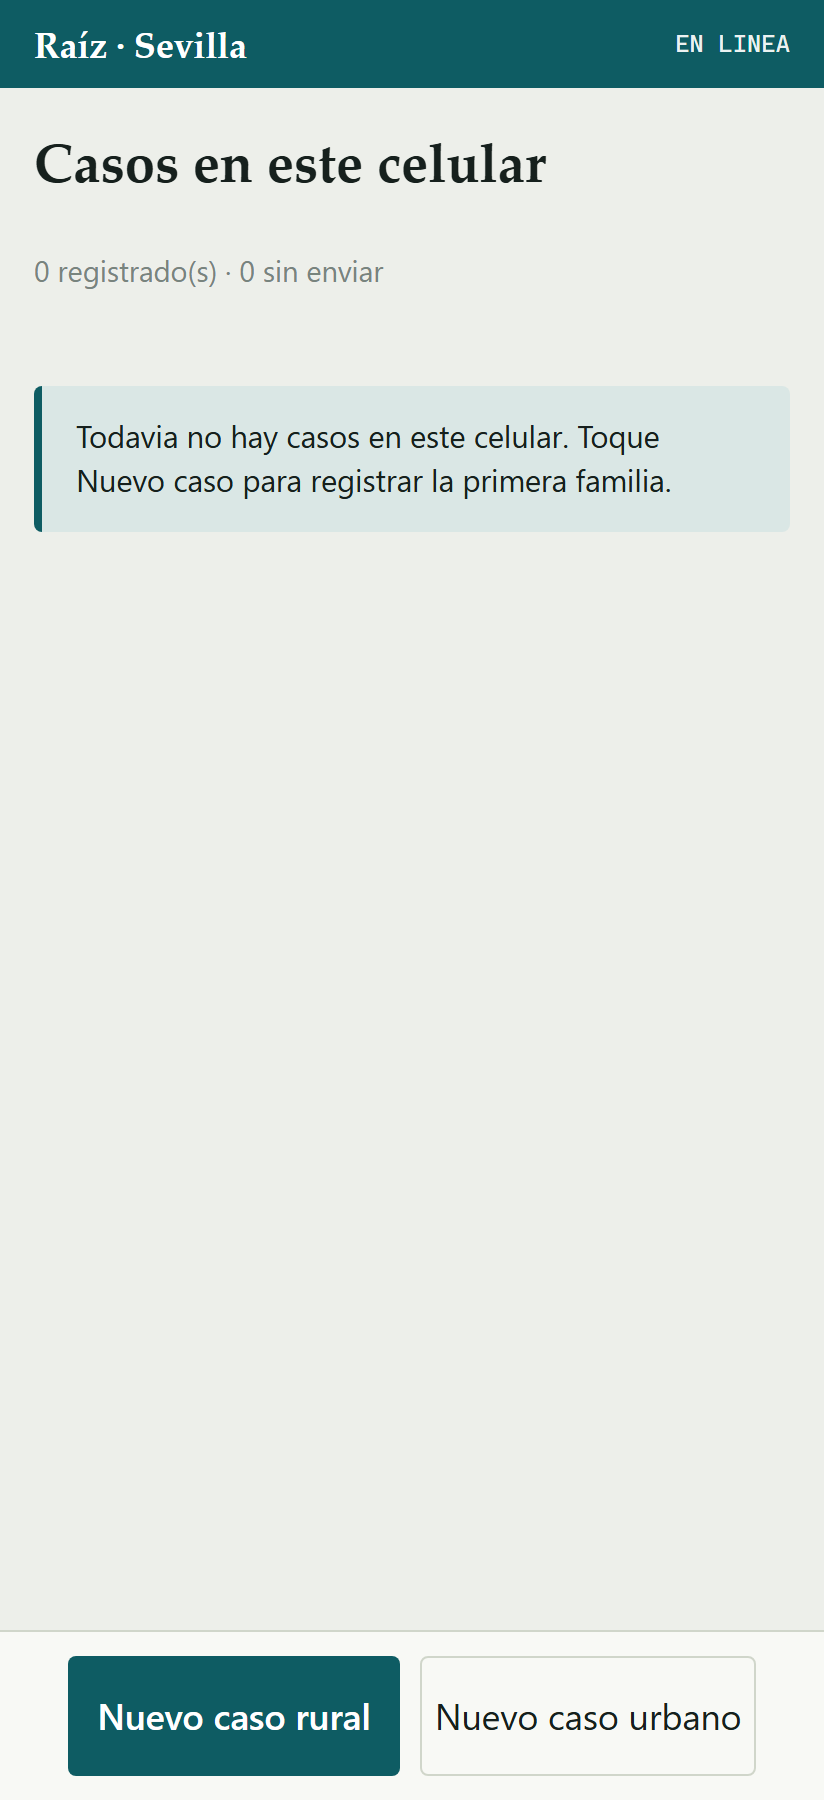
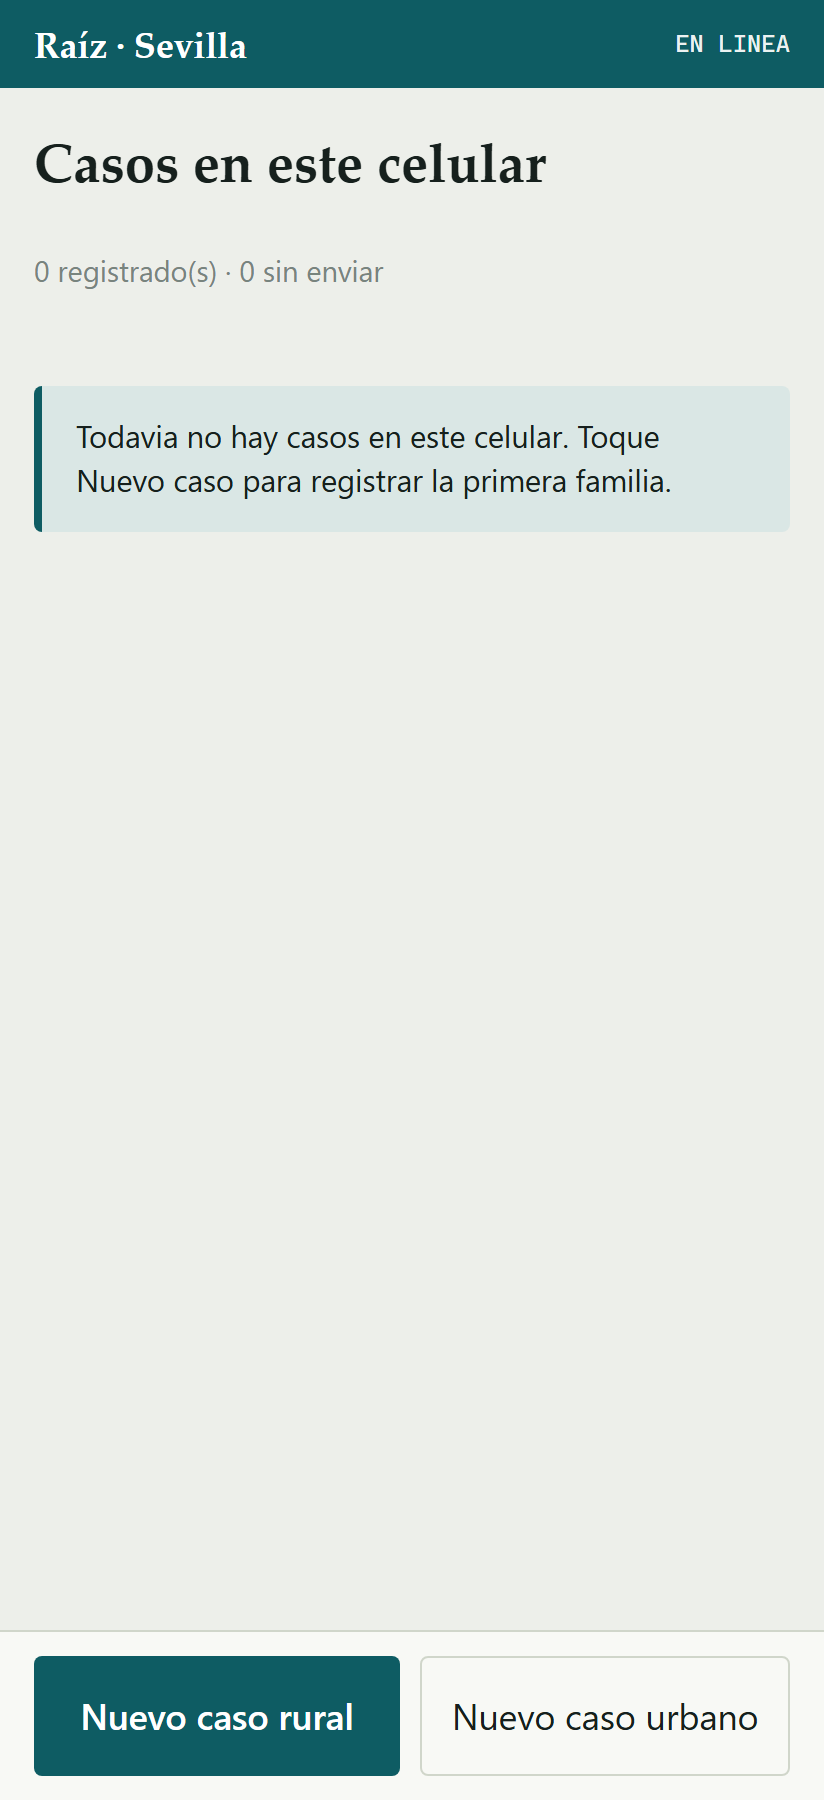
front: registro de voluntarios, con la cuenta inactiva hasta que la mesa la active
Yonathan pidio la vista y las guardas del acceso. Las guardas y la pantalla de
entrada ya existian de F2 y quedaron verificadas contra su API de sesion; lo que
faltaba era registro.

LA DECISION QUE HAY DETRAS

En una emergencia no se puede poner friccion para sumar voluntarios: quien
quiera ayudar tiene que poder pedir su cuenta a las once de la noche sin esperar
a que alguien conteste un mensaje.

Y a la vez, no puede entrar informacion de familias reales al registro sin que
alguien responda por quien la levanto.

Por eso el registro es ABIERTO y la cuenta nace con el rol menos privilegiado y
sin activar. El voluntario se registra y conoce la herramienta; la custodia de
datos la activa cuando confirma quien es. Cero friccion para sumarse, cero datos
sin responsable.

CONTRATO QUE FALTA DEL LADO DE LA API

Ruta abierta de registro por POST.
Cuerpo: nombre, correo, clave, telefono, organizacion.
Respuesta 201 con pendienteDeActivacion booleano.
409 si el correo ya existe. 422 si los datos no sirven.

Si el servidor no manda ese campo, el cliente asume lo mas restrictivo: que
falta activar.

TAMBIEN

- Se corrige el texto de la pantalla de entrada, que decia que no habia registro
  abierto
- La organizacion es texto libre y no un catalogo: quien llega no siempre sabe
  como se llama formalmente su junta, y hacerlo escoger de una lista lo deja por
  fuera
- Se adapta la prueba de punta a punta a dos cambios suyos: el contador de
[…]

Changed region(s): [[0.0303, 0.9022, 0.4551, 0.9956], [0.5158, 0.9333, 0.9405, 0.9644]]

diff --git a/frontend/src/app/features/auth/registro.component.ts b/frontend/src/app/features/auth/registro.component.ts
@@ -1,0 +1,185 @@
+import { ChangeDetectionStrategy, Component, inject, signal } from '@angular/core';
+import { FormBuilder, ReactiveFormsModule, Validators } from '@angular/forms';
+import { Router, RouterLink } from '@angular/router';
+import { environment } from '../../../environments/environment';
+import { AUTH, AuthPort } from '../../core/domain/auth.model';
+
+/**
+ * Pedir una cuenta de voluntario.
+ *
+ * POR QUE EL REGISTRO ES ABIERTO Y LA CUENTA NACE INACTIVA
+ *
+ * En una emergencia no se puede poner friccion para sumar gente: quien quiera ayudar
+ * tiene que poder pedir su cuenta a las once de la noche, sin esperar a que alguien
+ * conteste un mensaje.
+ *
+ * Y a la vez, no puede entrar informacion de familias reales al registro sin que
+ * alguien responda por quien la levanto. Por eso la cuenta se crea con el rol menos
+ * privilegiado y sin activar: el voluntario se registra y conoce la herramienta, y la
+ * custodia de datos la activa cuando confirma quien es.
+ *
+ * Cero friccion para sumarse, cero datos sin responsable.
+ *
+ * QUE SE PIDE Y QUE NO. Se piden cinco cosas y tres son obligatorias. La organizacion
+ * es texto libre y no un catalogo, porque quien llega no siempre sabe como se llama
+ * formalmente su junta, y hacerlo escoger de una lista lo deja por fuera.
+ *
+ * @version 0.1.0
+ */
+@Component({
+  selector: 'app-registro',
+  imports: [ReactiveFormsModule, RouterLink],
+  changeDetection: ChangeDetectionStrategy.OnPush,
+  template: `
+    <div class="contenedor pila" style="padding:2rem 1rem;max-width:26rem">
+      @if (registrado()) {
+        <header class="pila-sm">
+          <h1>Cuenta creada</h1>
+        </header>
+        <p class="aviso exito">
+          Su cuenta quedo creada. <strong>Falta que la mesa la active</strong> antes de
+          que pueda registrar familias.
+        </p>
+        <p class="tenue">
+          No es un tramite: es que ningun dato de una familia entra al registro sin que
+          alguien responda por quien lo levanto. Avise en el grupo que ya se registro y
+          la activan.
+        </p>
+        <a routerLink="/acceso" class="btn-primario btn-ancho btn-grande"
+           style="text-align:center;display:flex;align-items:center;justify-content:center;
+                  border-radius:4px">
+          Volver a la pantalla de entrada
+        </a>
+      } @else {
+        <header class="pila-sm">
+          <h1>Pedir una cuenta</h1>
+          <p class="tenue">
+            Para voluntarios, lideres comunales y personas de juntas o asociaciones que
+            van a registrar familias afectadas.
+          </p>
+        </header>
+
+        @if (!configurado) {
+          <p class="aviso">
+            El servidor todavia no esta configurado. Mientras tanto puede usar la
+            aplicacion en modo local desde la pantalla de entrada.
+          </p>
+        } @else {
+          <form class="pila-sm" [formGroup]="form" (ngSubmit)="enviar()">
+            <div class="campo">
+              <label for="nombre">Su nombre completo</label>
+              <input id="nombre" type="text" autocomplete="name" formControlName="nombre" />
+              <span class="pista">Con este nombre queda firmado cada caso que registre.</span>
+            </div>
+
+            <div class="campo">
+              <label for="correo">Correo</label>
+              <input id="correo" type="email" inputmode="email" autocomplete="username"
+                     formControlName="correo" />
+            </div>
+
+            <div class="campo">
+              <label for="tel">Celular</label>
+              <input id="tel" type="tel" inputmode="tel" formControlName="telefono" />
+              <span class="pista">Para poder confirmar quien es usted y activarle la cuenta.</span>
+            </div>
+
+            <div class="campo">
+              <label for="org">Junta, comite o asociacion</label>
+              <input id="org" type="text" formControlName="organizacion"
+                     placeholder="Escriba independiente si no pertenece a ninguna" />
+            </div>
+
+            <div class="campo" [class.invalido]="claveCorta()">
+              <label for="clave">Clave</label>
+              <input id="clave" [type]="verClave() ? 'text' : 'password'"
+                     autocomplete="new-password" formControlName="clave" />
+              @if (claveCorta()) {
+                <span class="error">Use al menos 8 caracteres.</span>
+              }
+              <label class="pastilla" style="align-self:flex-start;margin-top:.35rem"
+                     [class.activa]="verClave()">
+                <input type="checkbox" [checked]="verClave()"
+                       (change)="verClave.set(!verClave())" />
+                Ver la clave
+              </label>
+            </div>
+
+            @if (error()) {
+              <p class="aviso peligro">{{ error() }}</p>
+            }
+
+            <p class="pista">
+              Al crear la cuenta usted se compromete a no compartir con nadie los datos
+              de las familias que registre. Son datos sensibles y estan protegidos por
+              la Ley 1581 de 2012.
+            </p>
+
+            <button type="submit" class="btn-primario btn-ancho btn-grande"
+                    [disabled]="form.invalid || enviando()">
+              {{ enviando() ? 'Creando la cuenta...' : 'Pedir la cuenta' }}
+            </button>
+          </form>
+        }
+
+        <p class="pista">
+          Ya tiene cuenta? <a routerLink="/acceso">Entre por aqui</a>.
+        </p>
+      }
+    </div>
+  `
+})
+export class RegistroComponent {
+  private readonly fb = inject(FormBuilder);
+  private readonly auth = inject(AUTH) as AuthPort;
+  private readonly router = inject(Router);
+
+  readonly configurado = environment.apiUrl !== '';
+  readonly verClave = signal(false);
+  readonly enviando = signal(false);
+  readonly error = signal<string | null>(null);
+  readonly registrado = signal(false);
+
+  readonly form = this.fb.nonNullable.group({
+    nombre: ['', [Validators.required, Validators.minLength(3)]],
+    correo: ['', [Validators.required, Validators.email]],
+    telefono: ['', Validators.required],
+    organizacion: [''],
+    clave: ['', [Validators.required, Validators.minLength(8)]]
+  });
+
+  claveCorta(): boolean {
+    const c = this.form.controls.clave;
+    return c.invalid && c.touched;
+  }
+
+  async enviar(): Promise<void> {
+    if (this.form.invalid || this.enviando()) return;
+
+    this.enviando.set(true);
+    this.error.set(null);
+
+    const v = this.form.getRawValue();
+    const resultado = await this.auth.registrar({
+      nombre: v.nombre,
+      correo: v.correo,
+      clave: v.clave,
+      telefono: v.telefono || null,
+      organizacion: v.organizacion || null
+    });
+
+    this.enviando.set(false);
+
+    if (!resultado.exito) {
+      this.error.set(resultado.error ?? 'No se pudo crear la cuenta.');
+      return;
+    }
+
+    // Si el servidor la dejo activa, se entra directo; si no, se explica que falta.
+    if (resultado.pendienteDeActivacion) {
+      this.registrado.set(true);
+      return;
+    }
+    void this.router.navigate(['/acceso']);
+  }
+}

diff --git a/frontend/src/app/core/domain/auth.model.ts b/frontend/src/app/core/domain/auth.model.ts
@@ -48,9 +48,57 @@ export interface ResultadoAcceso {
   sinConexion: boolean;
 }
 
-/** Puerto de autenticacion. Lo implementa el adaptador de Supabase. */
+/** Datos con que un voluntario pide una cuenta. */
+export interface DatosRegistro {
+  nombre: string;
+  correo: string;
+  clave: string;
+  telefono: string | null;
+  /** Junta, comite o asociacion por la que llega. Texto libre: no es un catalogo. */
+  organizacion: string | null;
+}
+
+/** Resultado de pedir una cuenta. */
+export interface ResultadoRegistro {
+  exito: boolean;
+  /**
+   * True cuando la cuenta quedo creada pero todavia no puede entrar.
+   *
+   * Es el caso normal, no una excepcion: ver la nota sobre por que el registro es
+   * abierto pero la cuenta nace inactiva.
+   */
+  pendienteDeActivacion: boolean;
+  error?: string;
+  sinConexion: boolean;
+}
+
+/** Puerto de autenticacion. Lo implementa el adaptador contra la API propia. */
 export interface AuthPort {
   iniciarSesion(credenciales: CredencialesAcceso): Promise<ResultadoAcceso>;
+
+  /**
+   * Pide una cuenta.
+   *
+   * CONTRATO CON LA API: `POST /registro`, ruta abierta.
+   * Cuerpo: { nombre, correo, clave, telefono, organizacion }
+   * Respuesta 201: { pendienteDeActivacion: boolean }
+   * 409 si el correo ya existe. 422 si los datos no sirven.
+   *
+   * POR QUE EL REGISTRO ES ABIERTO PERO LA CUENTA NACE INACTIVA
+   *
+   * En una emergencia no se puede poner friccion para sumar voluntarios: quien
+   * quiera ayudar tiene que poder pedir su cuenta a las once de la noche, sin
+   * esperar a que alguien conteste un mensaje.
+   *
+   * Pero tampoco puede entrar informacion de familias reales al registro sin que
+   * alguien responda por quien la levanto. Por eso la cuenta se crea con el rol
+   * MENOS privilegiado y con `activo = false`: el voluntario puede registrarse,
+   * conocer la herramienta y practicar, y la custodia de datos la activa cuando
+   * confirma quien es.
+   *
+   * Las dos cosas a la vez: cero friccion para sumarse, cero datos sin responsable.
+   */
+  registrar(datos: DatosRegistro): Promise<ResultadoRegistro>;
   cerrarSesion(): Promise<void>;
   /** Sesion vigente segun el servidor. Null si no hay o si no se pudo consultar. */
   sesionActual(): Promise<Sesion | null>;

diff --git a/frontend/src/app/core/infra/api-auth.adapter.ts b/frontend/src/app/core/infra/api-auth.adapter.ts
@@ -3,8 +3,10 @@ import { environment } from '../../../environments/environment';
 import {
   AuthPort,
   CredencialesAcceso,
+  DatosRegistro,
   PerfilUsuario,
   ResultadoAcceso,
+  ResultadoRegistro,
   Sesion
 } from '../domain/auth.model';
 
@@ -85,6 +87,60 @@ export class ApiAuthAdapter implements AuthPort {
         exito: false,
         error:
           'No hay conexion. Conectese una vez para iniciar sesion; despues puede trabajar sin senal.',
+        sinConexion: true
+      };
+    }
+  }
+
+  async registrar(datos: DatosRegistro): Promise<ResultadoRegistro> {
+    if (!environment.apiUrl) {
+      return {
+        exito: false,
+        pendienteDeActivacion: false,
+        error: 'El servidor no esta configurado.',
+        sinConexion: false
+      };
+    }
+
+    try {
+      const r = await this.pedir('POST', '/registro', {
+        nombre: datos.nombre.trim(),
+        correo: datos.correo.trim().toLowerCase(),
+        clave: datos.clave,
+        telefono: datos.telefono?.trim() || null,
+        organizacion: datos.organizacion?.trim() || null
+      });
+
+      if (r.status === 409) {
+        return {
+          exito: false,
+          pendienteDeActivacion: false,
+          error: 'Ya existe una cuenta con ese correo. Intente entrar, o pida que la activen.',
+          sinConexion: false
+        };
+      }
+
+      if (!r.ok) {
+        return {
+          exito: false,
+          pendienteDeActivacion: false,
+          error: await this.detalle(r),
+          sinConexion: false
+        };
+      }
+
+      const cuerpo = (await r.json()) as { pendienteDeActivacion?: boolean };
+      return {
+        exito: true,
+        // Si el servidor no lo dice, se asume lo mas restrictivo: que falta activar.
+        pendienteDeActivacion: cuerpo.pendienteDeActivacion !== false,
+        sinConexion: false
+      };
+    } catch {
+      return {
+        exito: false,
+        pendienteDeActivacion: false,
+        error: 'No hay conexion. Necesita senal una sola vez para crear la cuenta.',
         sinConexion: true
       };
     }

diff --git a/frontend/src/app/features/auth/acceso.component.ts b/frontend/src/app/features/auth/acceso.component.ts
@@ -1,6 +1,6 @@
 import { ChangeDetectionStrategy, Component, inject, signal } from '@angular/core';
 import { FormBuilder, ReactiveFormsModule, Validators } from '@angular/forms';
-import { ActivatedRoute, Router } from '@angular/router';
+import { ActivatedRoute, Router, RouterLink } from '@angular/router';
 import { environment } from '../../../environments/environment';
 import { SesionService } from '../../core/services/sesion.service';
 
@@ -14,7 +14,7 @@ import { SesionService } from '../../core/services/sesion.service';
  */
 @Component({
   selector: 'app-acceso',
-  imports: [ReactiveFormsModule],
+  imports: [ReactiveFormsModule, RouterLink],
   changeDetection: ChangeDetectionStrategy.OnPush,
   template: `
     <div class="contenedor pila" style="padding:2rem 1rem;max-width:26rem">
@@ -63,8 +63,9 @@ import { SesionService } from '../../core/services/sesion.service';
         </form>
 
         <p class="pista">
-          ¿No tiene cuenta? El coordinador se la crea y le asigna un rol. No hay
-          registro abierto: los datos de las familias son sensibles.
+          ¿No tiene cuenta? <a routerLink="/registro">Pídala aquí</a>. Se crea al
+          momento, y la mesa la activa cuando confirme quién es usted: ningún dato de
+          una familia entra al registro sin que alguien responda por quien lo levantó.
         </p>
       }
     </div>

diff --git a/frontend/src/app/app.routes.ts b/frontend/src/app/app.routes.ts
@@ -19,6 +19,13 @@ export const routes: Routes = [
       import('./features/auth/acceso.component').then((m) => m.AccesoComponent)
   },
   {
+    path: 'registro',
+    title: 'Pedir una cuenta · Raíz',
+    canActivate: [invitadoGuard],
+    loadComponent: () =>
+      import('./features/auth/registro.component').then((m) => m.RegistroComponent)
+  },
+  {
     path: 'casos',
     title: 'Casos · Raíz',
     canActivate: [sesionGuard],
